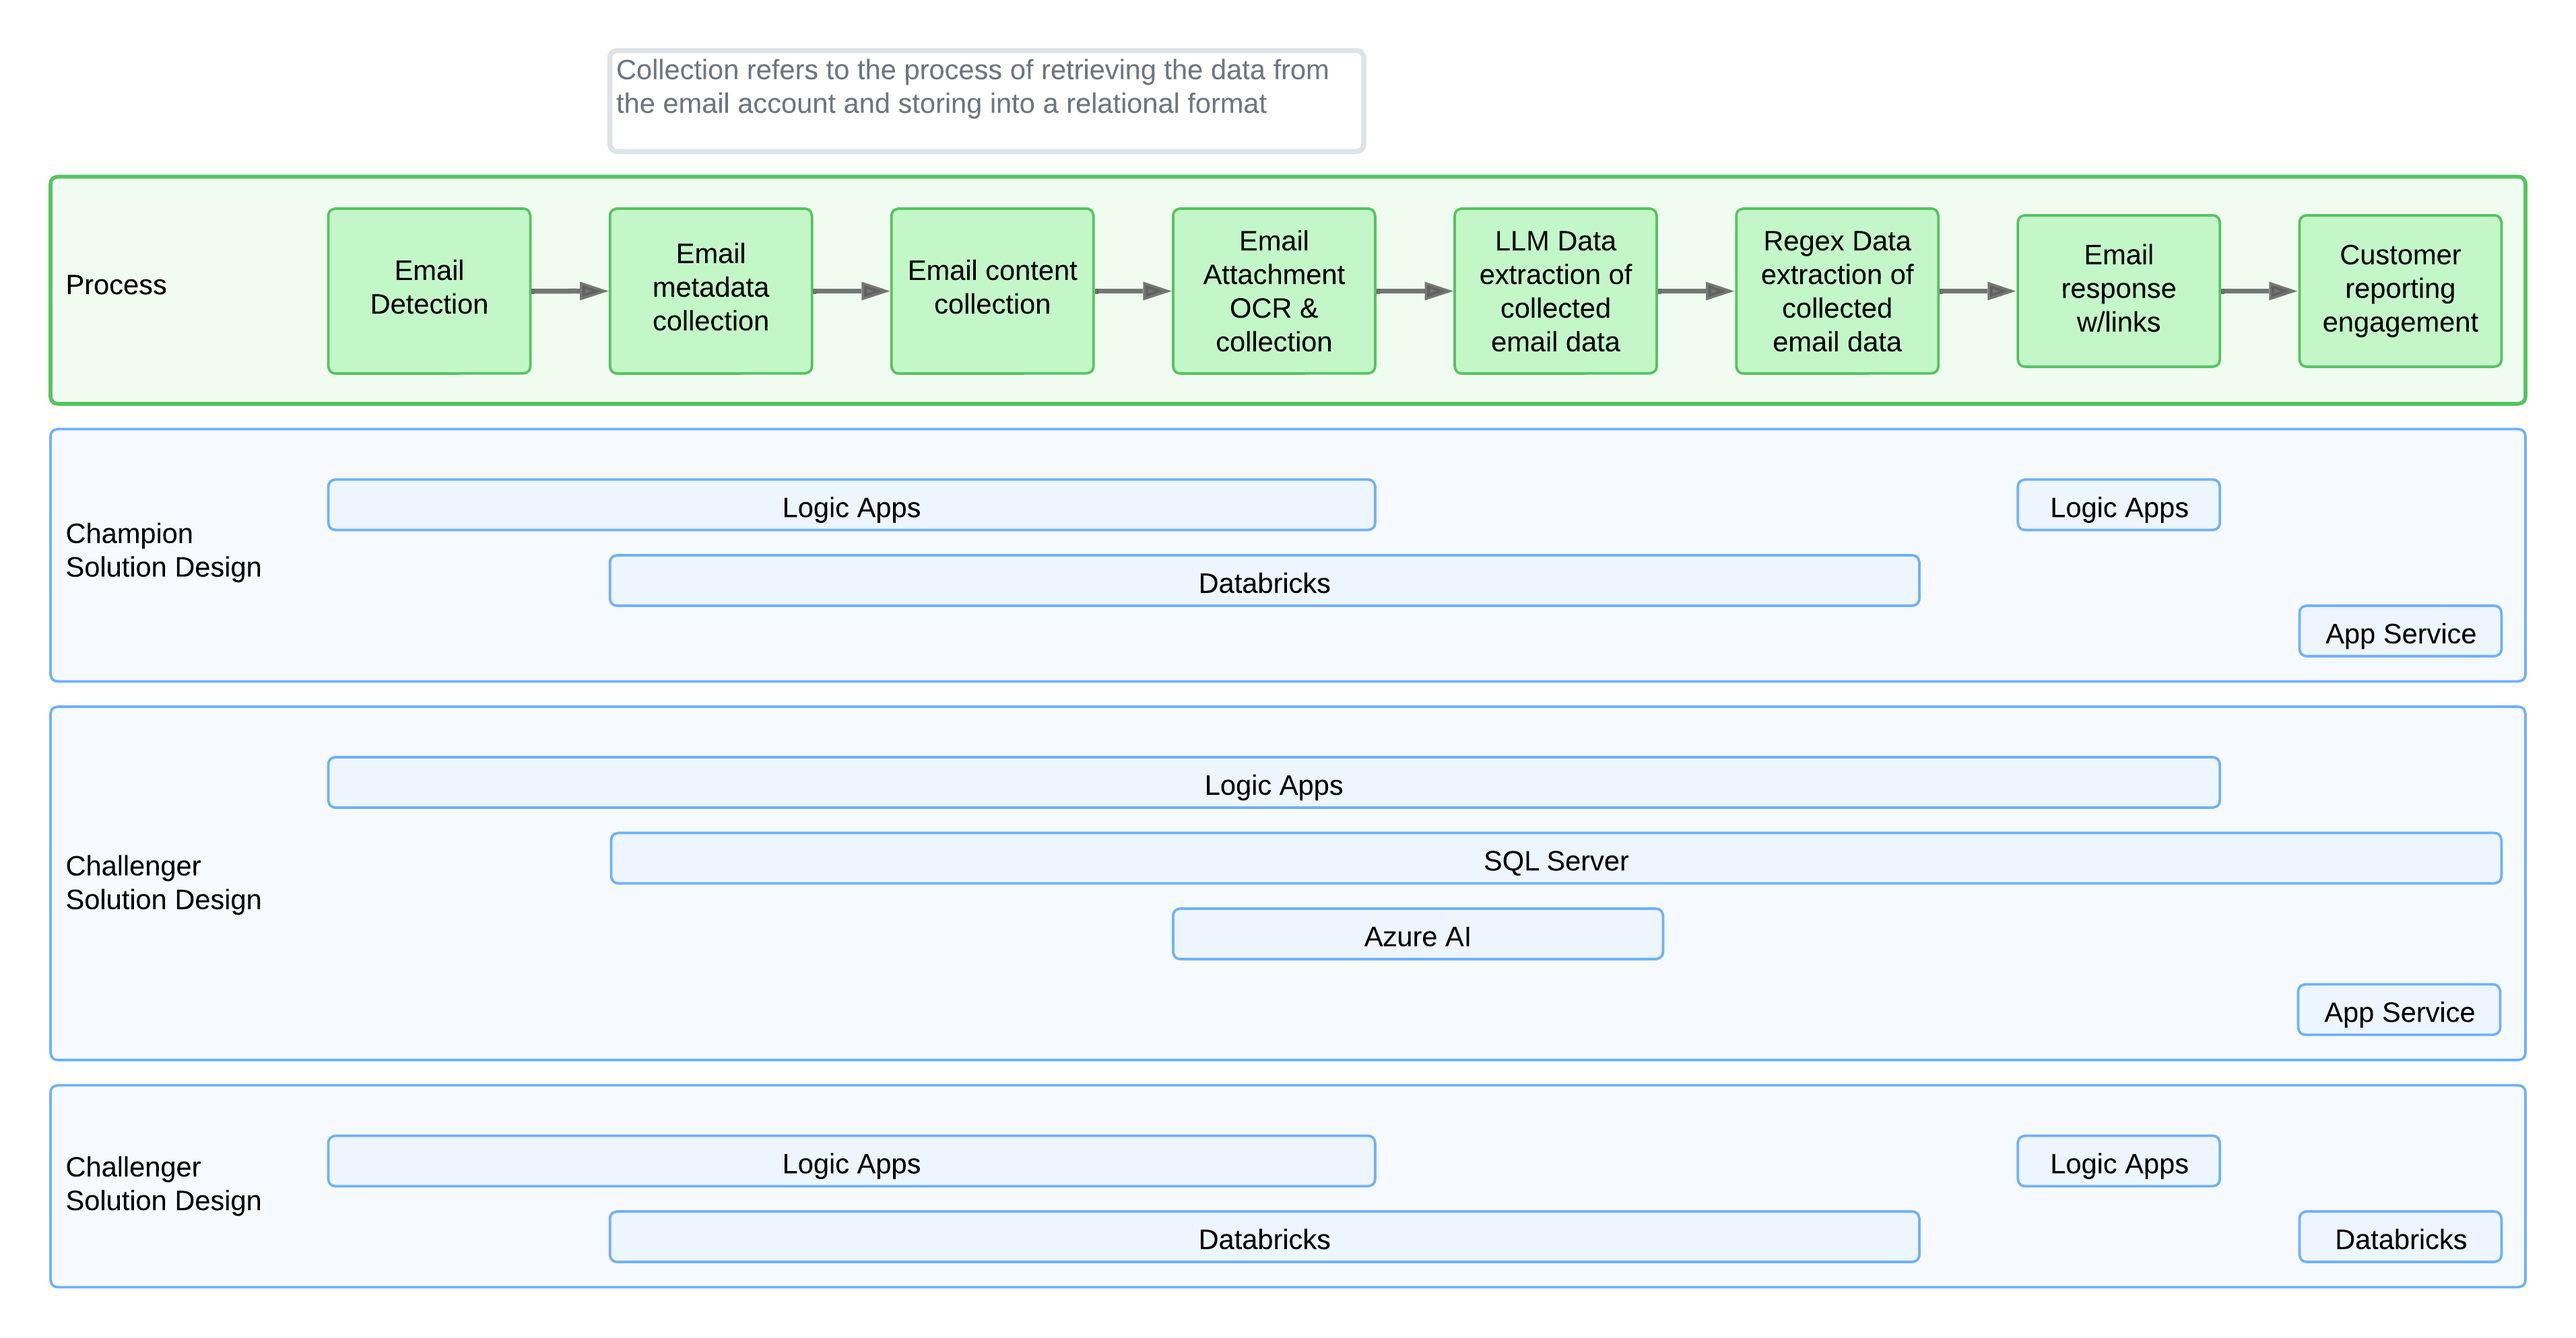
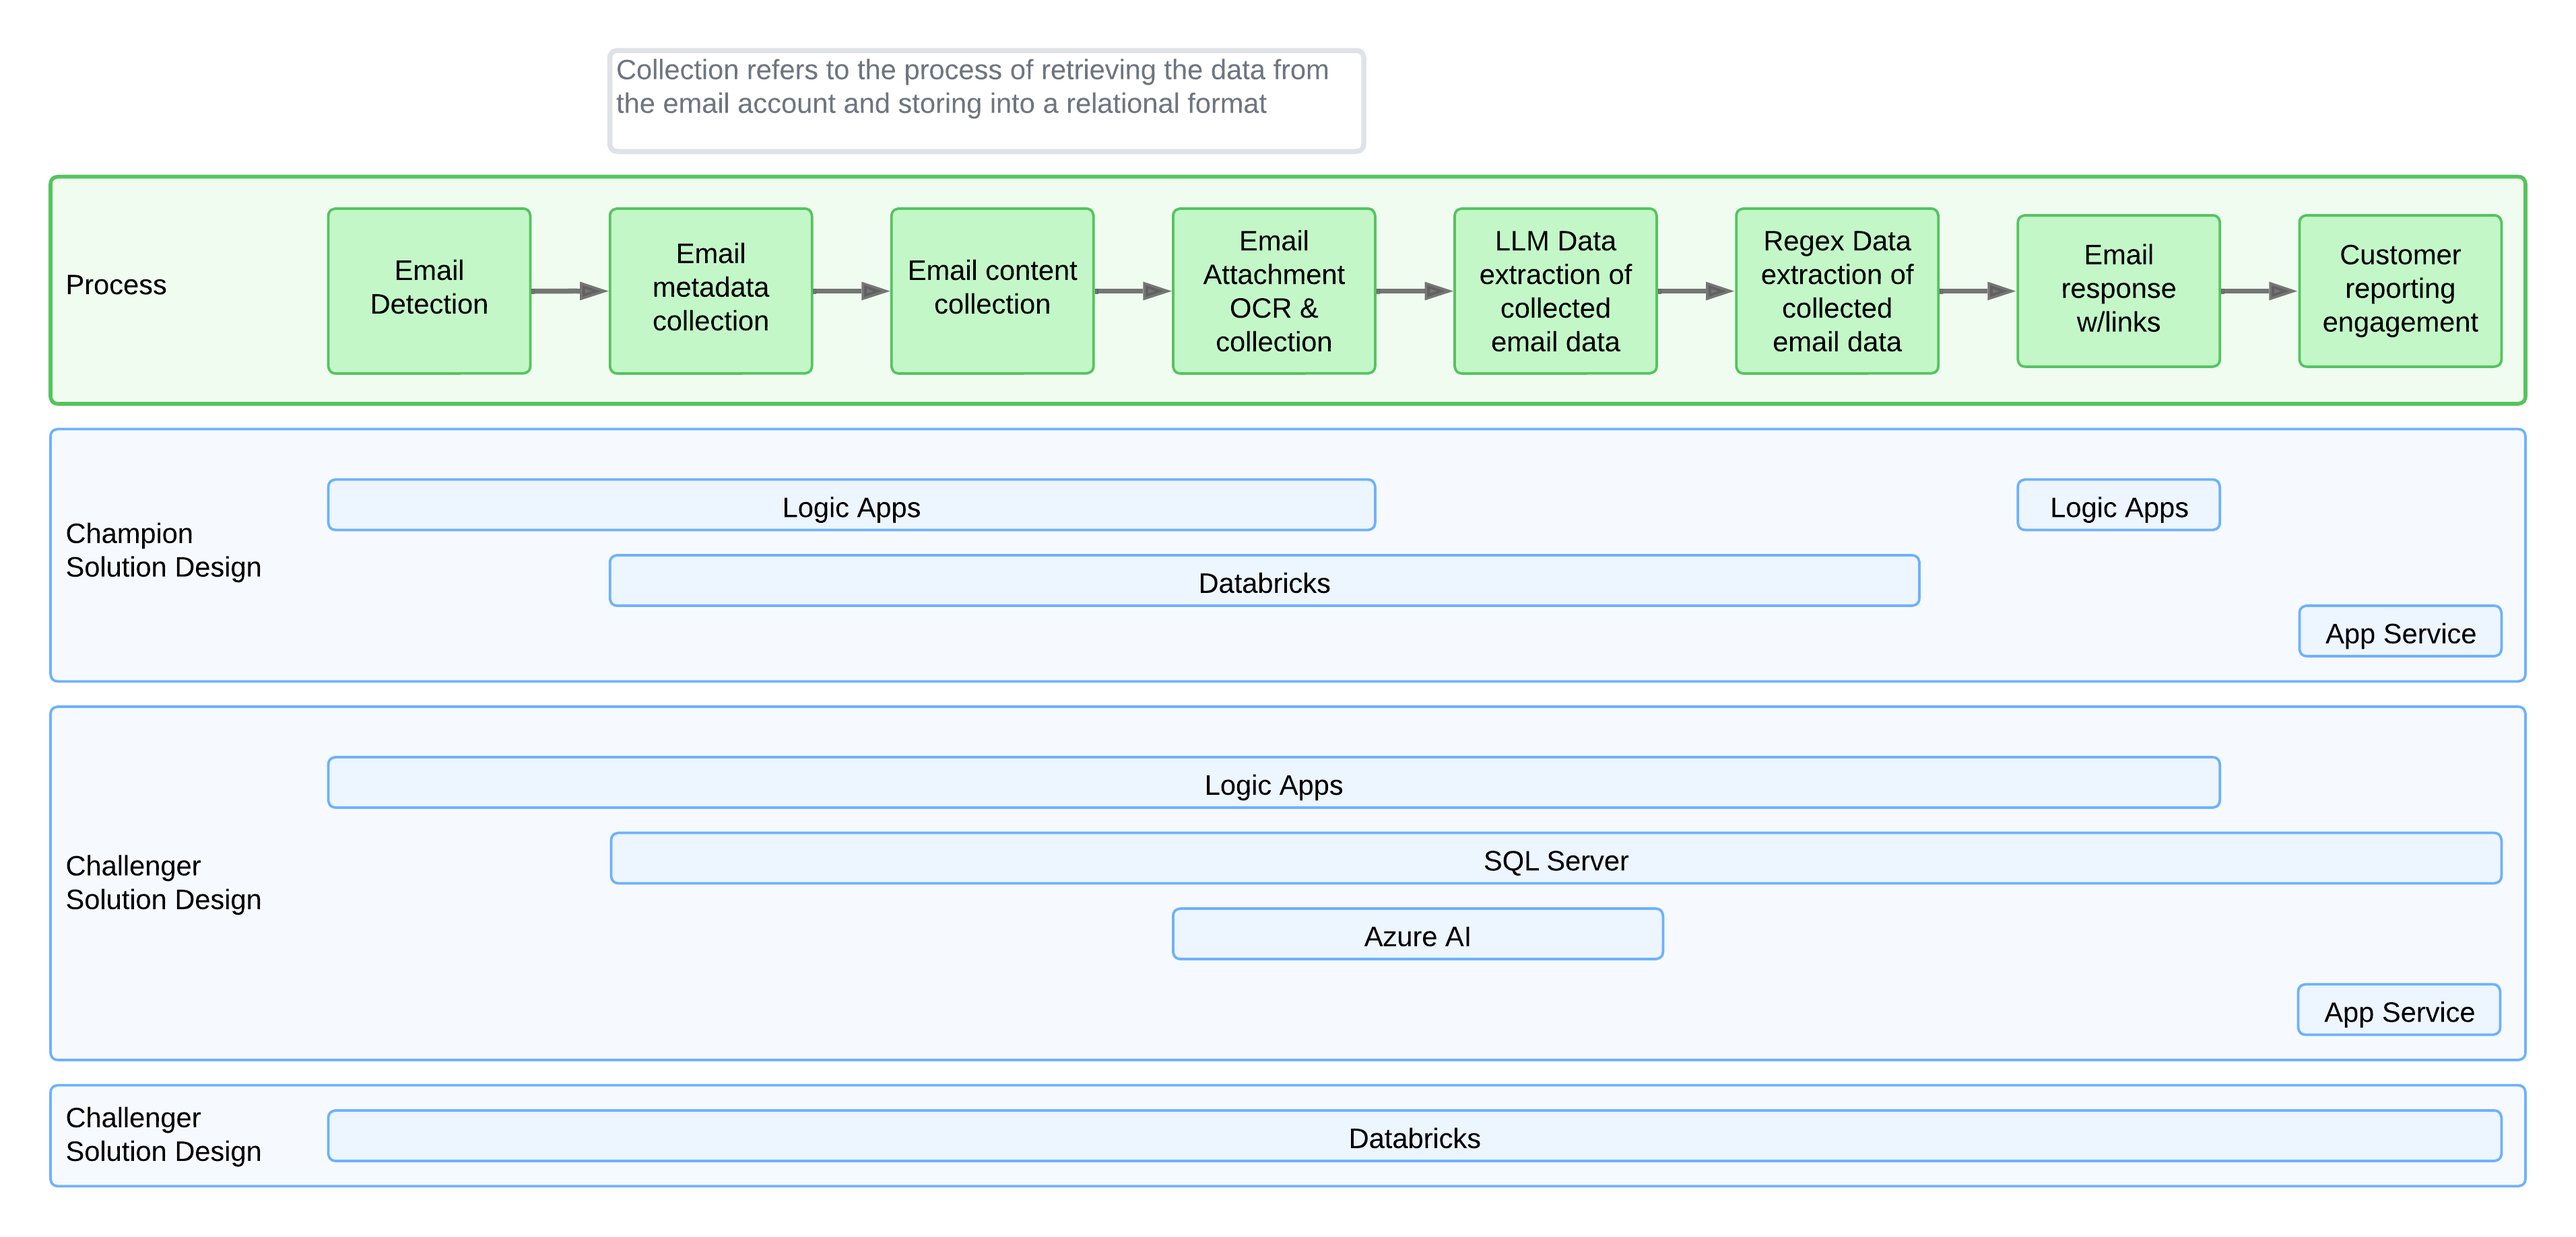
Documentation detail is up to snuff

diff --git a/documentation/README.md b/documentation/README.md
@@ -17,8 +17,7 @@ There are many ways to build a solution but they influenced by the platform they
 3. App Services is responsible for presenting a Portal interface for the end user, mainly related to reporting and surfacing analytics information.  Links to the App Service pages would be included in the email sent back to the original sender by Logic Apps.
 
 ### Details on Champion solution (Databricks Heavy)
-1. Logic Apps is responsible for retrieving emails, and writing the information including attachments to raw storage.  On the back end of the process Logic Apps is responsible for sending an email response to the original sender
-2. Databricks is responsible for organizing the email metadata saving it to tables.  Using LLMs to extract information from the body of the email.  OCRing the attachments, using LLMs and regex to extract information from those documents as well as tabularizing all of that information into tables for further reporting.  Lastly it formulates an email response and calls a logic app to return an email to the original sender. Databricks Apps is responsible for presenting a Portal interface for the end user, mainly related to reporting and surfacing analytics information.  Links to the Databricks App would be included in the email sent back to the original sender by Logic Apps.
+1. Databricks does it all.  Databricks is responsible for retrieving emails, and writing the information including attachments to raw storage.  On the back end of the process Databricks is responsible for sending an email response to the original sender.  Databricks is responsible for organizing the email metadata saving it to tables.  Using LLMs to extract information from the body of the email.  OCRing the attachments, using LLMs and regex to extract information from those documents as well as tabularizing all of that information into tables for further reporting.  Lastly it formulates an email response and calls a logic app to return an email to the original sender. Databricks Apps is responsible for presenting a Portal interface for the end user, mainly related to reporting and surfacing analytics information.  Links to the Databricks App would be included in the email sent back to the original sender by Logic Apps.
 
 
 
@@ -30,7 +29,7 @@ To forecast a cost for running this solution we used the following assumptions a
 - The solution would receive reporting requests 24 x 7
 - Any compute resource that could respond with on demand resources would assume 80 hours of processing a month, otherwise 24x7 is required.
 
-#### Champion Solution #1 forecast: $2500/month
+#### Champion Solution #1 forecast: $2300/month
 - Same Raw Storage Costs across all 3 solutions ~$10/month
 - Refined and Modeled Storage ~$20/month
 - Same App Service Costs in Champion and Challenger #1 ~$200/month
@@ -53,14 +52,11 @@ To forecast a cost for running this solution we used the following assumptions a
 - Azure AI Language 20,000 calls for LLM data extraction across all three Summarization, Sentiment Analysis, & Customer Questions
 - Azure SQL running 24x7 2vCore very small
 - Details
-#### Challenger Solution #3 Forecast Cost: ~$2700
+#### Challenger Solution #3 Forecast Cost: ~$2600
 - Same Raw Storage Costs across all 3 solutions ~$10/month
 - Refined and Modeled Storage ~$20/month
-- Same App Service Costs in Champion and Challenger #1 ~$200/month
 - Databricks SQL running 80 hours to support expected queries from reporting ~$700/month
-- Databricks Job Cluster running 80 hours to support expected analytics processing ~200/month
+- Databricks Job Cluster running 320 hours to support expected analytics processing ~$800/month
 - Databricks Hosted Model Calls - 20,000 = 20000 calls *5000tokens/1,000,000=1400 DBUs ~$800/month
-- Logic Apps 10,000 standard calls for Email data collection ~$180/month
-- Logic Apps 1,000 standard calls for outbound email  ~$20/month
 - Databricks App 24x7 ~$300
 - Details
